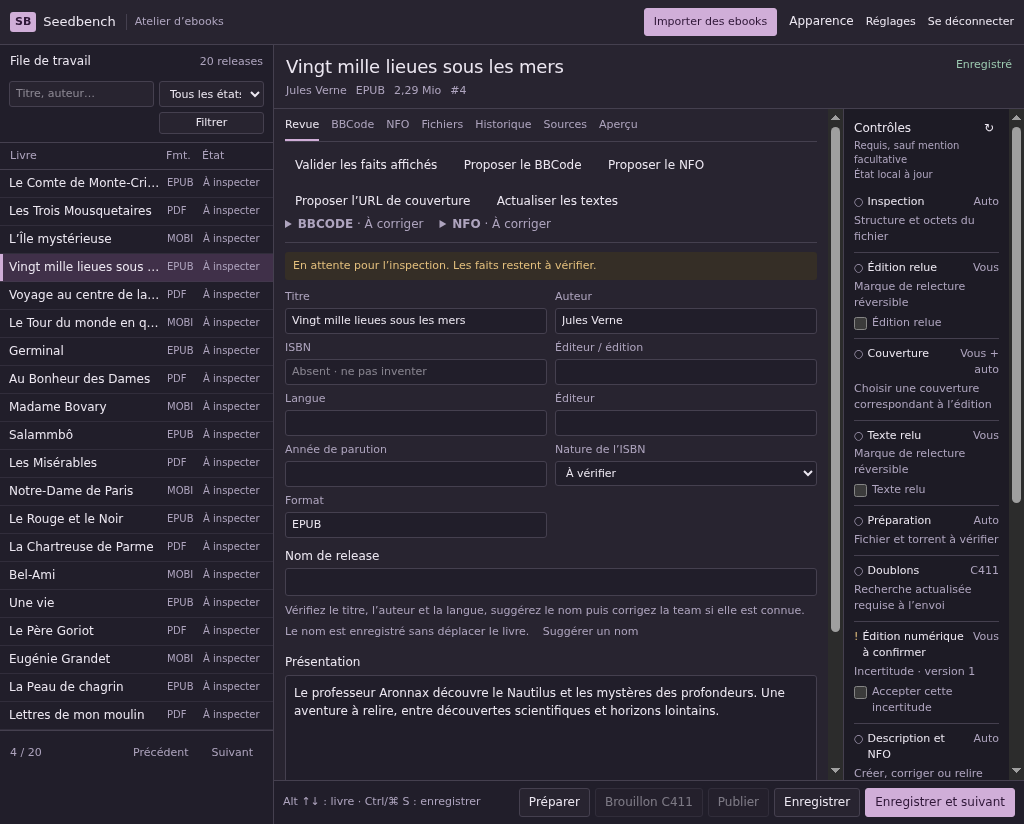
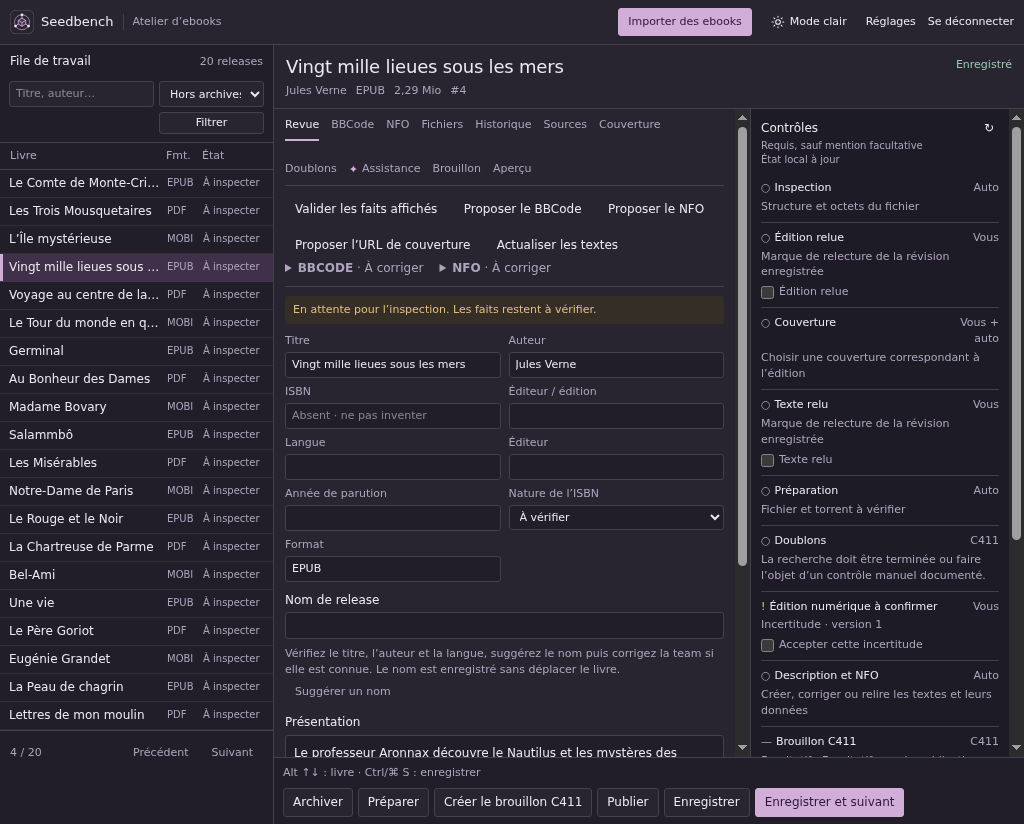
feat(workbench): split settings by role and mark AI actions

diff --git a/app/assets/stylesheets/application.css b/app/assets/stylesheets/application.css
@@ -32,7 +32,7 @@ a[href]:not(.queue-row, .app-brand, .work-button):hover { text-decoration: under
 .nav-context { color: var(--muted); border-left: 1px solid var(--border); padding-left: 8px; font-size: 11px; }
 .app-nav-actions { display: flex; flex-wrap: wrap; justify-content: flex-end; align-items: center; gap: 12px; margin-left: auto; }
 .app-nav-actions > a, .app-nav-actions > form > button { font-size: 11px; }
-.app-nav-actions > a[aria-current="page"] { color: var(--accent); text-decoration: underline; text-underline-offset: 3px; }
+.app-nav-actions > a[aria-current="location"] { color: var(--accent); text-decoration: underline; text-underline-offset: 3px; }
 .app-nav-actions .theme-toggle { font-size: 11px; padding: 3px 6px; }
 .theme-toggle span { display: inline-flex; align-items: center; gap: 5px; }
 .theme-toggle svg { width: 14px; height: 14px; }
@@ -55,8 +55,10 @@ a[href]:not(.queue-row, .app-brand, .work-button):hover { text-decoration: under
 .work-button:not(:disabled):hover { text-decoration: none; border-color: var(--accent); background: color-mix(in srgb, var(--accent) 9%, var(--panel)); }
 .work-button.primary:not(:disabled):hover { background: var(--accent); filter: brightness(.94); }
 .work-button:disabled, .work-button[aria-disabled="true"] { opacity: .45; cursor: not-allowed; }
+.ai-icon { flex: none; color: var(--accent); line-height: 1; }
+.ai-icon::before { content: "✦"; }
 button:focus-visible, a:focus-visible, input:focus-visible, select:focus-visible, textarea:focus-visible, summary:focus-visible { outline: 2px solid var(--accent); outline-offset: 2px; }
-.work-layout { display: grid; grid-template-columns: 274px minmax(0, 1fr); min-height: calc(100dvh - 46px); }
+.work-layout { --work-sidebar-width: 274px; display: grid; grid-template-columns: var(--work-sidebar-width) minmax(0, 1fr); min-height: calc(100dvh - 46px); }
 .work-queue { min-width: 0; border-right: 1px solid var(--border); background: var(--inset); }
 .queue-heading, .queue-footer, .queue-pagination { display: flex; justify-content: space-between; align-items: center; gap: 5px; padding: 8px 10px; }
 .queue-heading > span, .queue-footer, .queue-pagination { color: var(--muted); font-size: 11px; }
@@ -85,10 +87,11 @@ button:focus-visible, a:focus-visible, input:focus-visible, select:focus-visible
 .save-conflict { border: 1px solid var(--warning); padding: 10px; margin-bottom: 10px; background: var(--warning-bg); }
 .save-conflict pre { max-height: 200px; overflow: auto; white-space: pre-wrap; overflow-wrap: anywhere; font-size: 11px; }
 .save-conflict > div { display: flex; flex-wrap: wrap; gap: 5px; margin-top: 8px; }
-.release-workspace { flex: 1; display: grid; grid-template-columns: minmax(0, 1fr) 181px; }
+.release-workspace { flex: 1; display: grid; grid-template-columns: minmax(0, 1fr) var(--work-sidebar-width); }
 .editor-area { min-width: 0; padding: 0 11px 12px; }
 .editor-tabs { display: flex; flex-wrap: wrap; gap: 12px; border-bottom: 1px solid var(--border); margin-bottom: 9px; }
 .editor-tabs > button { padding: 8px 0 6px; background: transparent; border: 0; border-bottom: 2px solid transparent; color: var(--muted); font-size: 11px !important; cursor: pointer; }
+.editor-tabs > button:has(.ai-icon) { display: inline-flex; align-items: center; gap: 4px; }
 .editor-tabs > button[aria-selected="true"] { color: var(--foreground); border-bottom-color: var(--accent); }
 .work-warning, .work-alert { padding: 6px 8px; color: var(--warning); background: var(--warning-bg); border-radius: 3px; font-size: 11px; margin-bottom: 9px !important; }
 .editor-fields { display: grid; grid-template-columns: minmax(0, 1fr) minmax(0, 1fr); gap: 6px 8px; margin-block: 9px 10px; }
@@ -154,12 +157,14 @@ button:focus-visible, a:focus-visible, input:focus-visible, select:focus-visible
 .settings-page h3 { margin: 0; font-size: 13px; font-weight: 550; }
 .settings-page p { margin: 0; }
 .settings-header { display: grid; justify-items: start; gap: 6px; margin-bottom: 16px; }
+.settings-heading { display: flex; flex-wrap: wrap; justify-content: space-between; align-items: center; gap: 8px; width: 100%; }
 .settings-header p, .settings-hint { color: var(--muted); max-width: 72ch; }
-.settings-layout { display: grid; grid-template-columns: 150px minmax(0, 1fr); gap: 14px; align-items: start; }
+.settings-layout { display: grid; grid-template-columns: 174px minmax(0, 1fr); gap: 14px; align-items: start; }
 .settings-sidebar { position: sticky; top: 12px; display: grid; border: 1px solid var(--border); border-radius: 3px; background: var(--inset); }
-.settings-sidebar a { padding: 7px 10px; }
+.settings-sidebar a { display: flex; align-items: center; gap: 5px; padding: 7px 10px; }
 .settings-sidebar a + a { border-top: 1px solid var(--border); }
 .settings-sidebar a:hover { color: var(--accent); }
+.settings-sidebar a[aria-current="page"] { background: var(--selected); box-shadow: inset 3px 0 var(--accent); }
 .settings-sections { display: grid; gap: 12px; min-width: 0; }
 .settings-panel { min-width: 0; border: 1px solid var(--border); border-radius: 3px; background: var(--panel); }
 .settings-panel > header { padding: 9px 12px; border-bottom: 1px solid var(--border); background: var(--inset); }
@@ -190,12 +195,11 @@ button:focus-visible, a:focus-visible, input:focus-visible, select:focus-visible
   .settings-field :is(input, select) { min-height: 36px; }
 }
 @media (max-width: 1000px) {
-  .work-layout { grid-template-columns: 238px minmax(0, 1fr); }
-  .release-workspace { grid-template-columns: minmax(0, 1fr) 163px; }
+  .work-layout { --work-sidebar-width: 238px; }
   .nav-context { display: none; }
 }
 @media (max-width: 800px) {
-  .work-layout { grid-template-columns: 205px minmax(0, 1fr); }
+  .work-layout { --work-sidebar-width: 205px; }
   .release-workspace { display: flex; flex-direction: column; }
   .release-checklist { max-height: none; overflow-y: visible; border-left: 0; border-top: 1px solid var(--border); }
   .release-checklist .status-content { display: grid; grid-template-columns: repeat(2, minmax(0, 1fr)); gap: 0 10px; }

diff --git a/app/controllers/provider_connections_controller.rb b/app/controllers/provider_connections_controller.rb
@@ -1,30 +1,30 @@
 class ProviderConnectionsController < ApplicationController
-  rescue_from Settings::ConnectionConfig::Invalid, Settings::RotateCredentials::Conflict do |error|
-    redirect_to settings_path, alert: error.message, status: :see_other
-  end
+  rescue_from Settings::ConnectionConfig::Invalid, Settings::RotateCredentials::Conflict, with: :redirect_with_error
 
   def create
-    connection = Settings::CreateConnection.call(**connection_params)
+    attributes = connection_params
+    @requested_role = attributes[:role]
+    connection = Settings::CreateConnection.call(**attributes)
     Drafts::Connect.call(connection: connection)
-    redirect_to settings_path, notice: t('settings.connection_created'), status: :see_other
+    redirect_to settings_provider_path(connection.role), notice: t('settings.connection_created'), status: :see_other
   end
 
   def rotate
     values = params.expect(rotation: [ :expected_version, :confirm_identity, credentials: %i[api_key password] ])
-    Settings::RotateCredentials.call(connection_id: params[:id], expected_version: Integer(values[:expected_version].to_s, exception: false),
+    connection = Settings::RotateCredentials.call(connection_id: params[:id], expected_version: Integer(values[:expected_version].to_s, exception: false),
       confirm_identity: values[:confirm_identity] == '1', credentials: values.fetch(:credentials, {}).to_h)
-    redirect_to settings_path, notice: t('settings.secret_rotated'), status: :see_other
+    redirect_to settings_provider_path(connection.role), notice: t('settings.secret_rotated'), status: :see_other
   end
 
   def check
     connection = Settings::TestConnection.call(connection_id: params.expect(:id))
-    redirect_to settings_path(anchor: helpers.dom_id(connection)), status: :see_other
+    redirect_to settings_provider_path(connection.role, anchor: helpers.dom_id(connection)), status: :see_other
   end
 
   def configure
     values = params.expect(configuration: [ :expected_version, options: [ :model ] ])
-    Settings::ConfigureConnection.call(connection_id: params[:id], expected_version: Integer(values[:expected_version].to_s, exception: false), options: values.fetch(:options, {}).to_h)
-    redirect_to settings_path, notice: t('settings.options_updated'), status: :see_other
+    connection = Settings::ConfigureConnection.call(connection_id: params[:id], expected_version: Integer(values[:expected_version].to_s, exception: false), options: values.fetch(:options, {}).to_h)
+    redirect_to settings_provider_path(connection.role), notice: t('settings.options_updated'), status: :see_other
   end
 
   def complete
@@ -32,10 +32,16 @@ class ProviderConnectionsController < ApplicationController
     connection = Settings::CompleteConnection.call(connection_id: params[:id], expected_version: Integer(values[:expected_version].to_s, exception: false),
       confirm_identity: values[:confirm_identity] == '1', endpoint: values[:endpoint], credentials: values.fetch(:credentials, {}), options: values.fetch(:options, {}))
     Drafts::Connect.call(connection: connection)
-    redirect_to settings_path, notice: t('settings.connection_completed'), status: :see_other
+    redirect_to settings_provider_path(connection.role), notice: t('settings.connection_completed'), status: :see_other
   end
 
   private
+
+  def redirect_with_error(error)
+    role = @requested_role || ProviderConnection.find_by(id: params[:id])&.role
+    location = Providers::Catalog::ROLES.key?(role) ? settings_provider_path(role) : settings_path
+    redirect_to location, alert: error.message, status: :see_other
+  end
 
   def connection_params
     values = params.expect(connection: [ :role, :label, :identity_key, :endpoint, credentials: %i[api_key password], options: [ :model ] ]).to_h.symbolize_keys

diff --git a/spec/requests/settings_spec.rb b/spec/requests/settings_spec.rb
@@ -3,26 +3,29 @@ require 'rails_helper'
 RSpec.describe 'Provider settings' do
   before { sign_in_operator }
 
-  it 'renders the four roles with masked secrets' do
+  it 'shows only the selected provider connections and masks their secrets' do
     create_connection
-    get settings_path
+    create_connection('ai')
+    get settings_provider_path('publishing')
 
     expect(response).to have_http_status(:ok)
-    expect(response.body).to include('C411', 'Deluge', 'OpenAI', 'Postimages', '••••••••')
-    expect(response.body).not_to include('synthetic-private-credential')
+    expect(response.body).to include('Synthetic C411', '••••••••')
+    expect(response.body).not_to include('Synthetic OpenAI', 'synthetic-private-credential', 'Enregistrer les choix par défaut')
+    expect(response.parsed_body.at_css('.settings-sidebar [aria-current="page"]').text.strip).to eq('Site de publication')
   end
 
   it 'creates a connection and immediately imports drafts using read requests' do
     stub_draft_account
     post provider_connections_path, params: { connection: connection_attributes }
 
-    expect(response).to redirect_to(settings_path)
+    expect(response).to redirect_to(settings_provider_path('publishing'))
     expect(ProviderConnection.sole.check_status).to eq('untested')
     expect(DraftLink.count).to eq(1)
   end
 
   it 'does not reflect rejected credentials into the response' do
     post provider_connections_path, params: { connection: connection_attributes.merge(options: { model: 'invalid' }) }
+    expect(response).to redirect_to(settings_provider_path('publishing'))
     follow_redirect!
 
     expect(response.body).to include('Options de connexion invalides')
@@ -33,7 +36,7 @@ RSpec.describe 'Provider settings' do
   it 'rotates a secret only with explicit identity confirmation' do
     connection = create_connection
     patch rotate_provider_connection_path(connection), params: { rotation: { expected_version: 1, confirm_identity: '1', credentials: { api_key: 'new-private-value' } } }
-    get settings_path
+    follow_redirect!
 
     expect(connection.reload.credentials).to eq('api_key' => 'new-private-value')
     expect(response.body).not_to include('new-private-value', 'synthetic-private-credential')
@@ -43,7 +46,7 @@ RSpec.describe 'Provider settings' do
     connection = create_connection
     stub_request(:get, 'https://c411.org/api/user/drafts').to_return(status: 403, body: 'private provider payload')
     post check_provider_connection_path(connection)
-    expect(response).to redirect_to(settings_path(anchor: "provider_connection_#{connection.id}"))
+    expect(response).to redirect_to(settings_provider_path('publishing', anchor: "provider_connection_#{connection.id}"))
     follow_redirect!
 
     expect(response.body).to include('HTTP 403', 'Échec du test')
@@ -69,7 +72,7 @@ RSpec.describe 'Provider settings' do
     connection = create_connection('ai')
     patch configure_provider_connection_path(connection), params: { configuration: { expected_version: 1, options: { model: 'another-model' } } }
 
-    expect(response).to redirect_to(settings_path)
+    expect(response).to redirect_to(settings_provider_path('ai'))
     expect(connection.reload.options).to eq('model' => 'another-model')
   end
 

diff --git a/spec/system/provider_settings_spec.rb b/spec/system/provider_settings_spec.rb
@@ -3,28 +3,26 @@ require 'rails_helper'
 RSpec.describe 'Provider settings', type: :system do
   it 'keeps provider navigation and forms usable on a narrow screen' do
     sign_in_browser
-    create_connection('ai')
     visit settings_path
     save_workbench_screenshot('settings-dark.png')
 
     set_workbench_viewport(320)
     click_button 'Mode clair'
-    expect(page).to have_css('html[data-theme="light"]')
-    save_workbench_screenshot('settings-light-mobile.png')
-
-    within('nav.settings-sidebar') { click_link 'OpenAI' }
-    within('#provider-openai') do
-      find('summary', text: 'Ajouter une connexion OpenAI').click
-      expect(page).to have_field('Identifiant exact du modèle')
-    end
+    within('nav.settings-sidebar') { click_link 'API Assistance IA' }
+    expect(page).to have_current_path(settings_provider_path('ai'))
+    find('summary', text: 'Ajouter une connexion OpenAI').click
+    expect(page).to have_field('Identifiant exact du modèle')
     expect(page.evaluate_script('document.documentElement.scrollWidth === document.documentElement.clientWidth')).to be(true)
+    save_workbench_screenshot('settings-light-mobile.png')
+    click_link 'Retour à l’atelier'
+    expect(page).to have_current_path(root_path)
   end
 
   it 'returns to the tested connection and shows its result' do
     sign_in_browser
     connection = create_connection
     stub_request(:get, 'https://c411.org/api/user/drafts').to_return(body: { success: true, data: [] }.to_json)
-    visit settings_path
+    visit settings_provider_path('publishing')
     click_button "Tester #{connection.label}"
 
     expect(page).to have_css('.settings-status', text: 'Test réussi')
@@ -34,7 +32,7 @@ RSpec.describe 'Provider settings', type: :system do
   it 'completes a legacy AI connection with its secret and model together' do
     sign_in_browser
     connection = ProviderConnection.create!(role: 'ai', provider: 'openai', identity_key: 'legacy-project', label: 'Legacy AI')
-    visit settings_path
+    visit settings_provider_path('ai')
     within("article[aria-label='Legacy AI']") do
       find('summary', text: 'Compléter la configuration').click
       fill_in 'Clé API', with: 'completed-browser-secret'
@@ -81,7 +79,7 @@ RSpec.describe 'Provider settings', type: :system do
   it 'creates a masked connection from its provider-specific form' do
     stub_request(:get, 'https://c411.org/api/user/drafts').to_return(body: { success: true, data: [] }.to_json)
     sign_in_browser
-    click_link 'Réglages'
+    visit settings_provider_path('publishing')
     within("section[aria-labelledby='role-publishing']") do
       find('summary', text: 'Ajouter une connexion C411').click
       fill_in 'Libellé', with: 'Browser C411'

diff --git a/spec/system/workbench_layout_spec.rb b/spec/system/workbench_layout_spec.rb
@@ -16,6 +16,7 @@ RSpec.describe 'Dense workbench layout', type: :system do
     page.evaluate_script(<<~JS)
       ({ width: innerWidth, overflow: document.documentElement.scrollWidth,
          queue: document.querySelector('.work-queue').getBoundingClientRect().width,
+         checklist: document.querySelector('.release-checklist').getBoundingClientRect().width,
          row: document.querySelector('.queue-row').getBoundingClientRect().height,
          background: getComputedStyle(document.body).backgroundColor,
          selected: getComputedStyle(document.querySelector('.queue-row[aria-current]')).backgroundColor,
@@ -31,7 +32,7 @@ RSpec.describe 'Dense workbench layout', type: :system do
     measured = dimensions
     save_workbench_screenshot('workbench-dark-desktop.png')
 
-    expect(measured).to include('queue' => 274, 'row' => 28, 'count' => 20, 'background' => 'rgb(29, 27, 37)', 'selected' => 'rgb(64, 48, 73)')
+    expect(measured).to include('queue' => 274, 'checklist' => 274, 'row' => 28, 'count' => 20, 'background' => 'rgb(29, 27, 37)', 'selected' => 'rgb(64, 48, 73)')
     expect(measured.fetch('overflow')).to be <= measured.fetch('width')
     expect(measured.fetch('lastRowBottom')).to be <= measured.fetch('height')
     expect(measured.fetch('footerBottom')).to be <= measured.fetch('height') + 1
@@ -48,12 +49,12 @@ RSpec.describe 'Dense workbench layout', type: :system do
   end
 
   it 'uses the matching light palette without horizontal overflow' do
-    set_workbench_viewport(1024)
+    set_workbench_viewport(900)
     set_workbench_theme('light')
     measured = dimensions
     save_workbench_screenshot('workbench-light-desktop.png')
 
-    expect(measured).to include('background' => 'rgb(241, 238, 245)', 'selected' => 'rgb(233, 221, 239)')
+    expect(measured).to include('queue' => 238, 'checklist' => 238, 'background' => 'rgb(241, 238, 245)', 'selected' => 'rgb(233, 221, 239)')
     expect(measured.fetch('overflow')).to be <= measured.fetch('width')
   end
 

diff --git a/app/controllers/settings_controller.rb b/app/controllers/settings_controller.rb
@@ -8,6 +8,15 @@ class SettingsController < ApplicationController
     @defaults = Settings::DefaultsSnapshot.call
   end
 
+  def provider
+    @role = params.expect(:role)
+    @definition = Providers::Catalog::ROLES[@role]
+    return head :not_found unless @definition
+
+    @provider_connections = ProviderConnection.where(role: @role).order(:id)
+    render :show
+  end
+
   def update
     values = params.expect(defaults: [ :automatic_ai, :expected_revision, connection_ids: %i[publishing torrent_client ai image_host] ])
     Settings::SetDefaults.call(automatic_ai: values[:automatic_ai] == '1', connection_ids: values.fetch(:connection_ids, {}).to_h,

diff --git a/spec/requests/private_access_spec.rb b/spec/requests/private_access_spec.rb
@@ -6,7 +6,7 @@ RSpec.describe 'Private access boundary' do
   it 'blocks release/settings reads and all configuration writes without a session' do
     release = Releases::Create.call(title: 'Private book title')
     connection = create_connection
-    [ root_path, settings_path, release_connections_path(release) ].each do |path|
+    [ root_path, settings_path, settings_provider_path('ai'), release_connections_path(release) ].each do |path|
       get path
       expect(response).to redirect_to(new_operator_session_path)
       expect(response.body).not_to include('Private book title', 'synthetic-private-credential')

diff --git a/spec/system/ai_assistance_spec.rb b/spec/system/ai_assistance_spec.rb
@@ -57,6 +57,7 @@ RSpec.describe 'Optional assistance review', type: :system do
     open_assistance
     set_workbench_viewport(320)
     find('summary', text: 'Analyse ciblée avec périmètre explicite').click
+    expect(page).to have_css('#tab-ai .ai-icon, .inspection-actions button .ai-icon, .ai-targeted button .ai-icon', count: 4)
     expect(page).to have_field('Périmètre et raison de l’analyse ciblée')
     expect(page.evaluate_script('document.documentElement.scrollWidth')).to be <= 320
     save_workbench_screenshot('ai-targeted-mobile.png')

diff --git a/config/routes.rb b/config/routes.rb
@@ -8,6 +8,7 @@ Rails.application.routes.draw do
     delete 'session', to: 'sessions#destroy', as: :destroy_operator_session
   end
   resource :settings, only: %i[show update]
+  get 'settings/providers/:role', to: 'settings#provider', as: :settings_provider
   resources :uploads, only: :create
   resources :releases, only: %i[index show update] do
     resource :archive, controller: 'release_archives', only: %i[create destroy]

diff --git a/README.md b/README.md
@@ -12,7 +12,7 @@
 <p align="center">
   <a href="https://github.com/01max/seedbench/actions/workflows/ci.yml"><img src="https://github.com/01max/seedbench/actions/workflows/ci.yml/badge.svg?branch=main" alt="CI status on main"></a>
   <a href="#how-it-runs"><img src="https://img.shields.io/badge/deployment-Docker%20Compose-74507d?style=flat-square" alt="Deployment: Docker Compose"></a>
-  <a href="#features"><img src="https://img.shields.io/badge/status-development%20preview-b88632?style=flat-square" alt="Status: development preview"></a>
+  <a href="#features"><img src="https://img.shields.io/badge/status-development%20preview-805809?style=flat-square" alt="Status: development preview"></a>
 </p>
 
 <p align="center">

diff --git a/docs/provider-settings.md b/docs/provider-settings.md
@@ -1,6 +1,9 @@
 # Provider settings
 
-Sign in and open **Réglages** to configure C411, Deluge, OpenAI, and Postimages.
+Sign in and open **Réglages**. Choose **Site de publication** for C411,
+**Client torrent** for Deluge, **API Assistance IA** for OpenAI, or
+**Hébergement d’images** for Postimages. Set defaults for future books in
+**Choix par défaut**.
 Only these implementations are offered. Creating a connection saves local
 configuration; a separate **Tester** action performs its bounded connection
 check. Settings never publishes, changes torrent options, starts a torrent,
